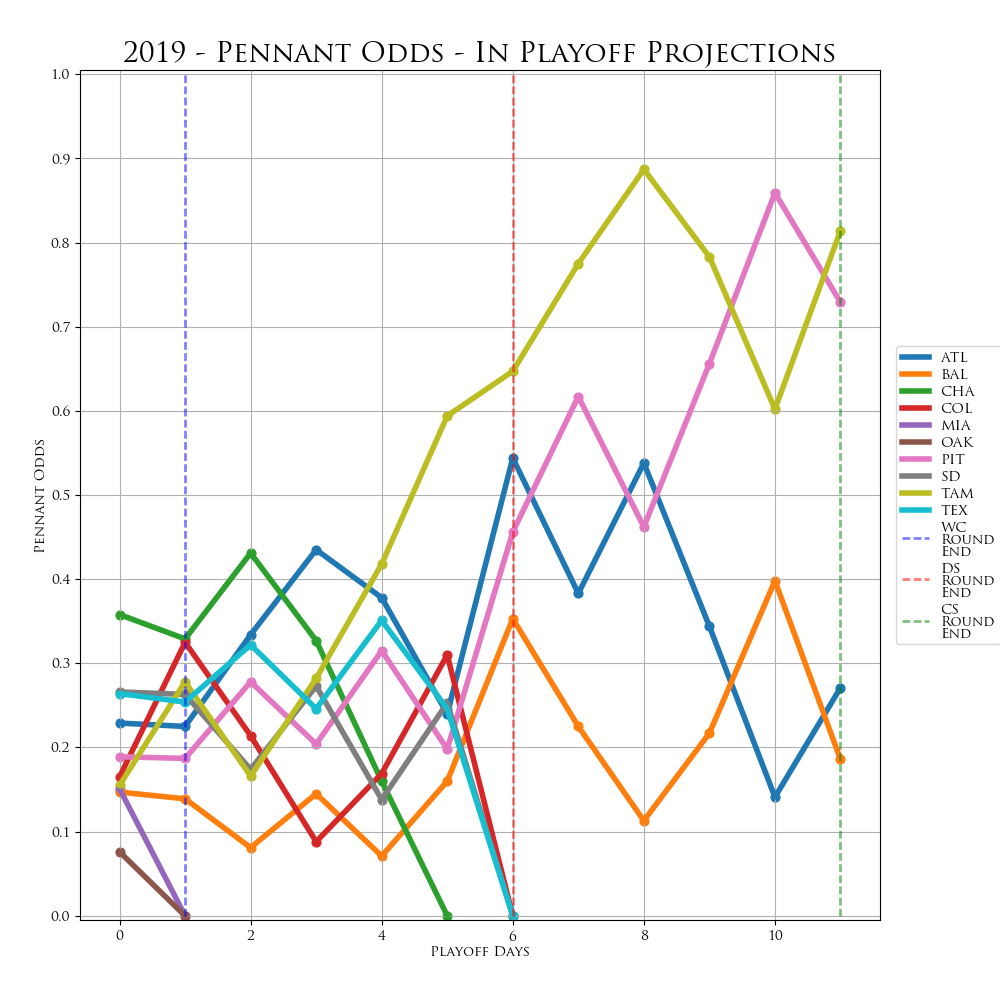
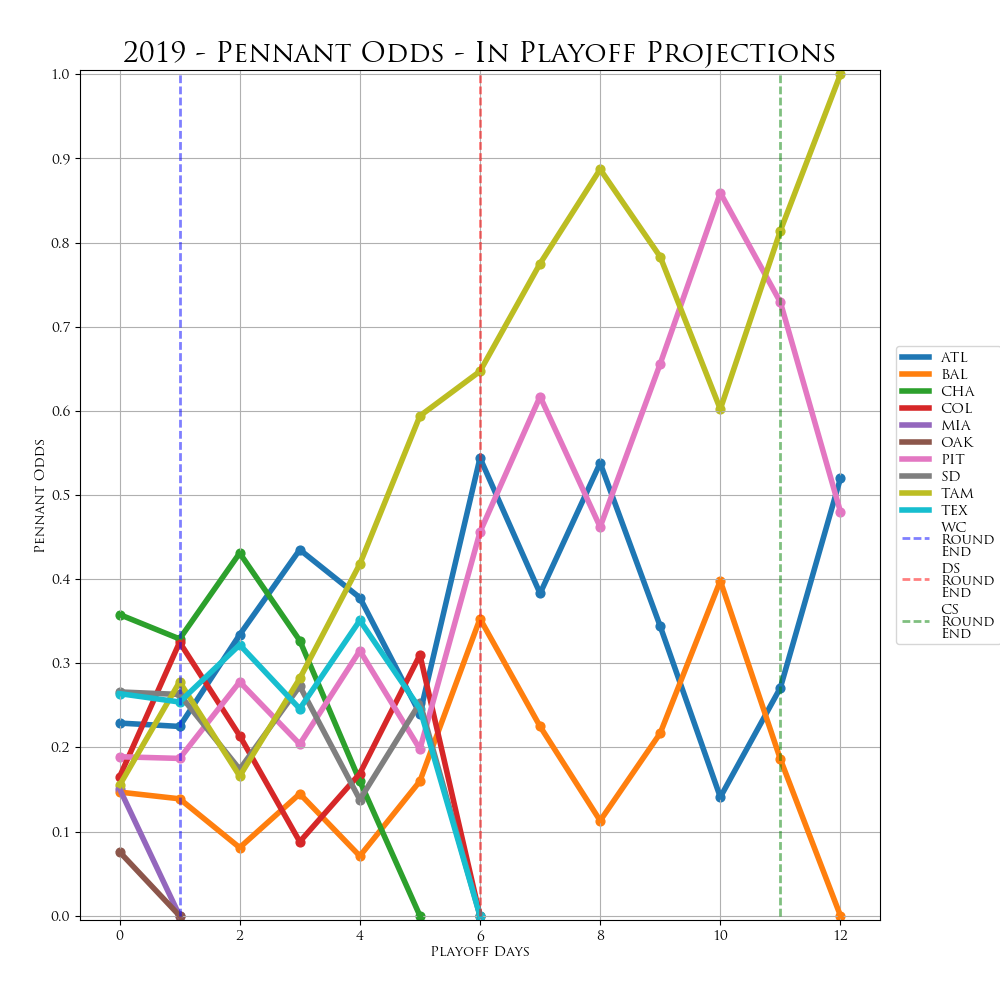
playoff NSBL update (Oct 15, 2019)

diff --git a/Tables/in_playoff_bracket.html b/Tables/in_playoff_bracket.html
@@ -255,7 +255,7 @@ c+"</h1><div>"+("function"===typeof e.message?e.message(b,h,e):e.message)+"</div
 </script>
 <script>
 		$(document).ready(function() {
-			$("#table").DataTable({"scroller":true,"dom":"Bfrtip","sScrollX":"100%","scrollY":"70vh","buttons":["copy","csv","json","print"],"paging":true,"bPaginate":false,"bLengthChange":false,"deferRender":true,"data":[["ALCS","Baltimore Orioles","Tampa Bay Rays","2","3","18.6%","","","","","18.6%"],["ALCS","Tampa Bay Rays","Baltimore Orioles","3","2","81.4%","","","","56.9%","24.5%"],["ALDS1","Baltimore Orioles","Texas Rangers","3","2","100.0%","","","100.0%","",""],["ALDS1","Texas Rangers","Baltimore Orioles","2","3","0.0%","","","","",""],["ALDS2","Chicago White Sox","Tampa Bay Rays","1","3","0.0%","","","","",""],["ALDS2","Tampa Bay Rays","Chicago White Sox","3","1","100.0%","","100.0%","","",""],["ALWC","Oakland Athletics","Tampa Bay Rays","0","1","0.0%","","","","",""],["ALWC","Tampa Bay Rays","Oakland Athletics","1","0","100.0%","","","","",""],["NLCS","Atlanta Braves","Pittsburgh Pirates","2","3","27.1%","","","","","27.1%"],["NLCS","Pittsburgh Pirates","Atlanta Braves","3","2","72.9%","","","","48.0%","25.0%"],["NLDS1","Pittsburgh Pirates","San Diego Padres","3","2","100.0%","","","100.0%","",""],["NLDS1","San Diego Padres","Pittsburgh Pirates","2","3","0.0%","","","","",""],["NLDS2","Atlanta Braves","Colorado Rockies","3","2","100.0%","","","100.0%","",""],["NLDS2","Colorado Rockies","Atlanta Braves","2","3","0.0%","","","","",""],["NLWC","Colorado Rockies","Miami Marlins","1","0","100.0%","","","","",""],["NLWC","Miami Marlins","Colorado Rockies","0","1","0.0%","","","","",""]],"sScrollXInner":"100%","columns":[{"title":"Series ID"},{"title":"Team Name"},{"title":"Opponent Name"},{"title":"Series Wins"},{"title":"Series Losses"},{"title":"Advance Probability"},{"title":"Win in 3"},{"title":"Win in 4"},{"title":"Win in 5"},{"title":"Win in 6"},{"title":"Win in 7"}],"iDisplayLength":-1});
+			$("#table").DataTable({"scroller":true,"dom":"Bfrtip","sScrollX":"100%","scrollY":"70vh","buttons":["copy","csv","json","print"],"paging":true,"bPaginate":false,"bLengthChange":false,"deferRender":true,"data":[["ALCS","Baltimore Orioles","Tampa Bay Rays","2","4","0.0%","","","","",""],["ALCS","Tampa Bay Rays","Baltimore Orioles","4","2","100.0%","","","","100.0%",""],["ALDS1","Baltimore Orioles","Texas Rangers","3","2","100.0%","","","100.0%","",""],["ALDS1","Texas Rangers","Baltimore Orioles","2","3","0.0%","","","","",""],["ALDS2","Chicago White Sox","Tampa Bay Rays","1","3","0.0%","","","","",""],["ALDS2","Tampa Bay Rays","Chicago White Sox","3","1","100.0%","","100.0%","","",""],["ALWC","Oakland Athletics","Tampa Bay Rays","0","1","0.0%","","","","",""],["ALWC","Tampa Bay Rays","Oakland Athletics","1","0","100.0%","","","","",""],["NLCS","Atlanta Braves","Pittsburgh Pirates","3","3","52.0%","","","","","52.0%"],["NLCS","Pittsburgh Pirates","Atlanta Braves","3","3","48.0%","","","","","48.0%"],["NLDS1","Pittsburgh Pirates","San Diego Padres","3","2","100.0%","","","100.0%","",""],["NLDS1","San Diego Padres","Pittsburgh Pirates","2","3","0.0%","","","","",""],["NLDS2","Atlanta Braves","Colorado Rockies","3","2","100.0%","","","100.0%","",""],["NLDS2","Colorado Rockies","Atlanta Braves","2","3","0.0%","","","","",""],["NLWC","Colorado Rockies","Miami Marlins","1","0","100.0%","","","","",""],["NLWC","Miami Marlins","Colorado Rockies","0","1","0.0%","","","","",""]],"sScrollXInner":"100%","columns":[{"title":"Series ID"},{"title":"Team Name"},{"title":"Opponent Name"},{"title":"Series Wins"},{"title":"Series Losses"},{"title":"Advance Probability"},{"title":"Win in 3"},{"title":"Win in 4"},{"title":"Win in 5"},{"title":"Win in 6"},{"title":"Win in 7"}],"iDisplayLength":-1});
 		});
 	</script>
 <style>

diff --git a/Tables/in_playoff_probabilities.html b/Tables/in_playoff_probabilities.html
@@ -227,7 +227,7 @@ c+"</h1><div>"+("function"===typeof e.message?e.message(b,h,e):e.message)+"</div
 </script>
 <script>
 		$(document).ready(function() {
-			$("#table").DataTable({"dom":"Bfrtip","sScrollX":"100%","scrollY":"70vh","buttons":["copy","csv","json","print"],"paging":true,"lengthMenu":[[-1,10,25,50],["All",10,25,50]],"data":[["Atlanta Braves","100.0%","0.0%","","100.0%","100.0%","27.1%","13.3%"],["Baltimore Orioles","100.0%","0.0%","","100.0%","100.0%","18.6%","7.8%"],["Chicago White Sox","100.0%","0.0%","","100.0%","0.0%","0.0%","0.0%"],["Colorado Rockies","0.0%","100.0%","100.0%","100.0%","0.0%","0.0%","0.0%"],["Miami Marlins","0.0%","100.0%","0.0%","0.0%","0.0%","0.0%","0.0%"],["Oakland Athletics","0.0%","100.0%","0.0%","0.0%","0.0%","0.0%","0.0%"],["Pittsburgh Pirates","100.0%","0.0%","","100.0%","100.0%","72.9%","32.5%"],["San Diego Padres","100.0%","0.0%","","100.0%","0.0%","0.0%","0.0%"],["Tampa Bay Rays","0.0%","100.0%","100.0%","100.0%","100.0%","81.4%","46.4%"],["Texas Rangers","100.0%","0.0%","","100.0%","0.0%","0.0%","0.0%"]],"sScrollXInner":"100%","columns":[{"title":"Team Name"},{"title":"Win Div"},{"title":"Make Wild Card"},{"title":"Win Wild Card"},{"title":"Make LDS"},{"title":"Make LCS"},{"title":"Make WS"},{"title":"Win WS"}],"iDisplayLength":-1});
+			$("#table").DataTable({"dom":"Bfrtip","sScrollX":"100%","scrollY":"70vh","buttons":["copy","csv","json","print"],"paging":true,"lengthMenu":[[-1,10,25,50],["All",10,25,50]],"data":[["Atlanta Braves","100.0%","0.0%","","100.0%","100.0%","52.0%","24.0%"],["Baltimore Orioles","100.0%","0.0%","","100.0%","100.0%","0.0%","0.0%"],["Chicago White Sox","100.0%","0.0%","","100.0%","0.0%","0.0%","0.0%"],["Colorado Rockies","0.0%","100.0%","100.0%","100.0%","0.0%","0.0%","0.0%"],["Miami Marlins","0.0%","100.0%","0.0%","0.0%","0.0%","0.0%","0.0%"],["Oakland Athletics","0.0%","100.0%","0.0%","0.0%","0.0%","0.0%","0.0%"],["Pittsburgh Pirates","100.0%","0.0%","","100.0%","100.0%","48.0%","20.1%"],["San Diego Padres","100.0%","0.0%","","100.0%","0.0%","0.0%","0.0%"],["Tampa Bay Rays","0.0%","100.0%","100.0%","100.0%","100.0%","100.0%","55.9%"],["Texas Rangers","100.0%","0.0%","","100.0%","0.0%","0.0%","0.0%"]],"sScrollXInner":"100%","columns":[{"title":"Team Name"},{"title":"Win Div"},{"title":"Make Wild Card"},{"title":"Win Wild Card"},{"title":"Make LDS"},{"title":"Make LCS"},{"title":"Make WS"},{"title":"Win WS"}],"iDisplayLength":-1});
 		});
 	</script>
 <style>
